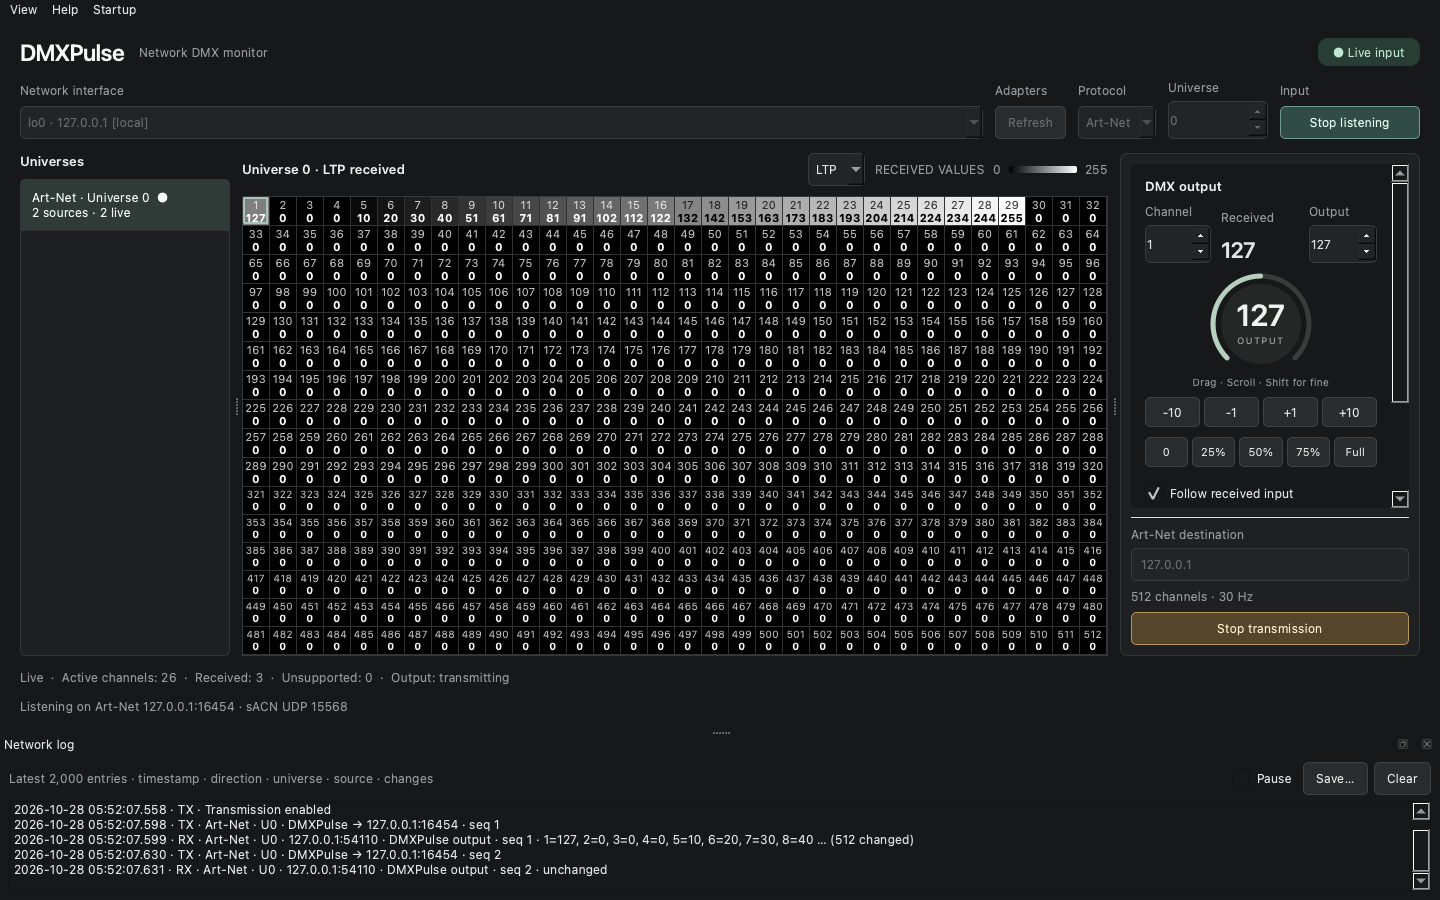
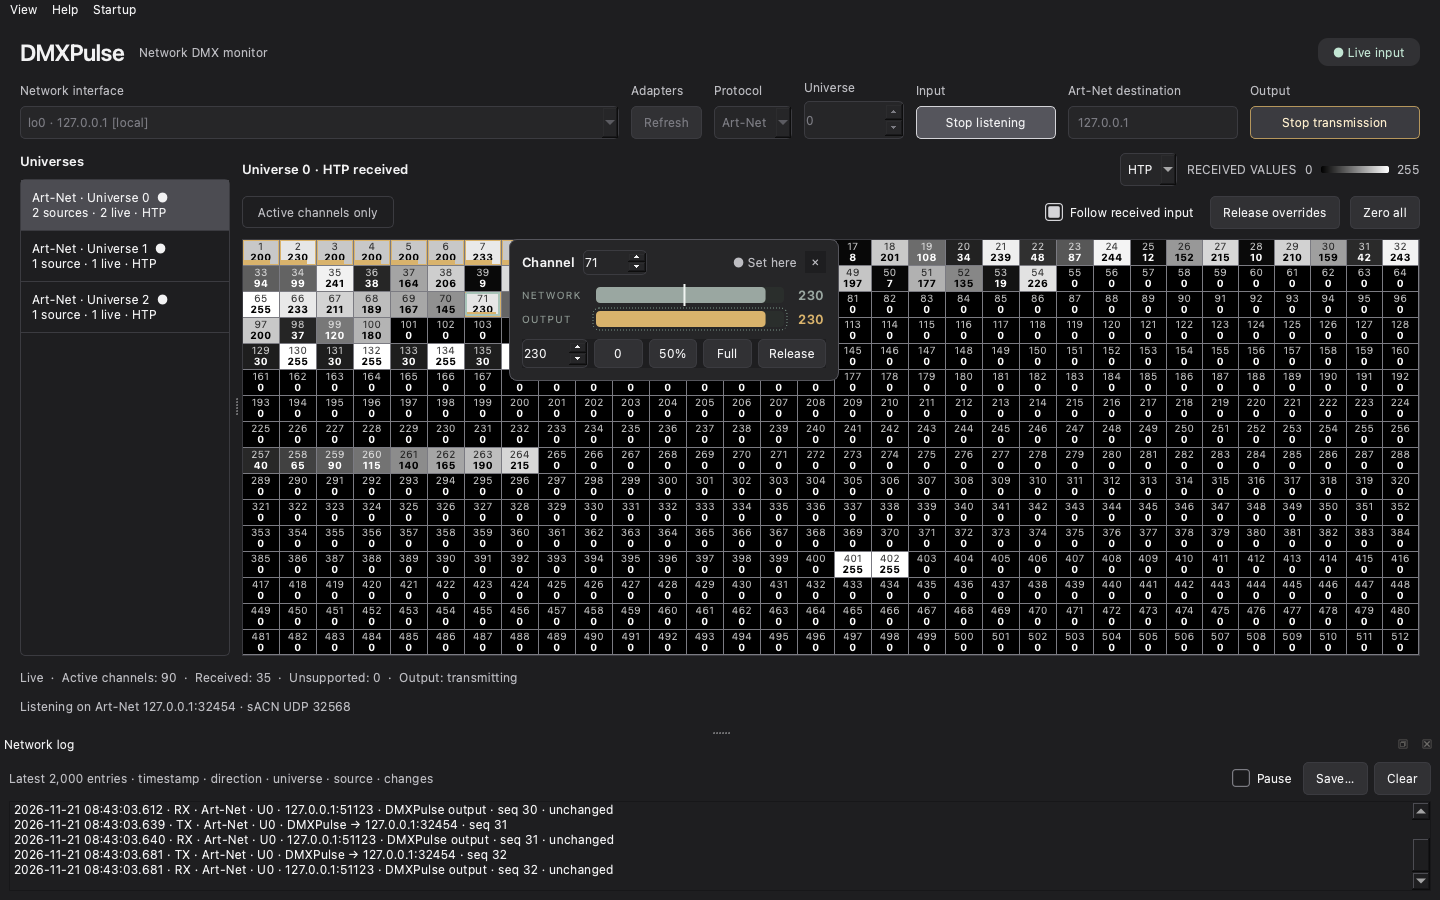
README: new screenshot and wording; downloads job on pxs v0.37.1

diff --git a/README.md b/README.md
@@ -18,7 +18,7 @@
   <img alt="Protocols Art-Net and sACN" src="https://img.shields.io/badge/Art--Net%20%C2%B7%20sACN-network%20DMX-333a37">
 </p>
 
-![DMXPulse — live universe, grayscale channel levels and independent output controls](docs/workspace.png)
+![DMXPulse — live universe, grayscale levels, and the channel editor comparing network and output](docs/workspace.png)
 
 ## The whole universe, at a glance
 
@@ -28,7 +28,7 @@ Switch on **Active channels only** to focus on received levels above zero. The v
 
 | Monitor | Inspect | Send |
 |:---|:---|:---|
-| See all 512 channels in one grayscale view. | Select a channel to compare received and prepared values. | Shape levels with a rotary encoder, fine steps or an exact value. |
+| See all 512 channels in one grayscale view. | Click a channel to compare what arrives with what you send. | Shift-click to edit a whole range at once: dial, fine steps or an exact value. |
 | Choose an interface, protocol and universe. | Merge received sources with HTP or LTP. | Follow input and override individual channels. |
 | Spot live, stale and missing input immediately. | Open network diagnostics when you need more detail. | Enable transmission explicitly, at approximately 30 Hz. |
 
